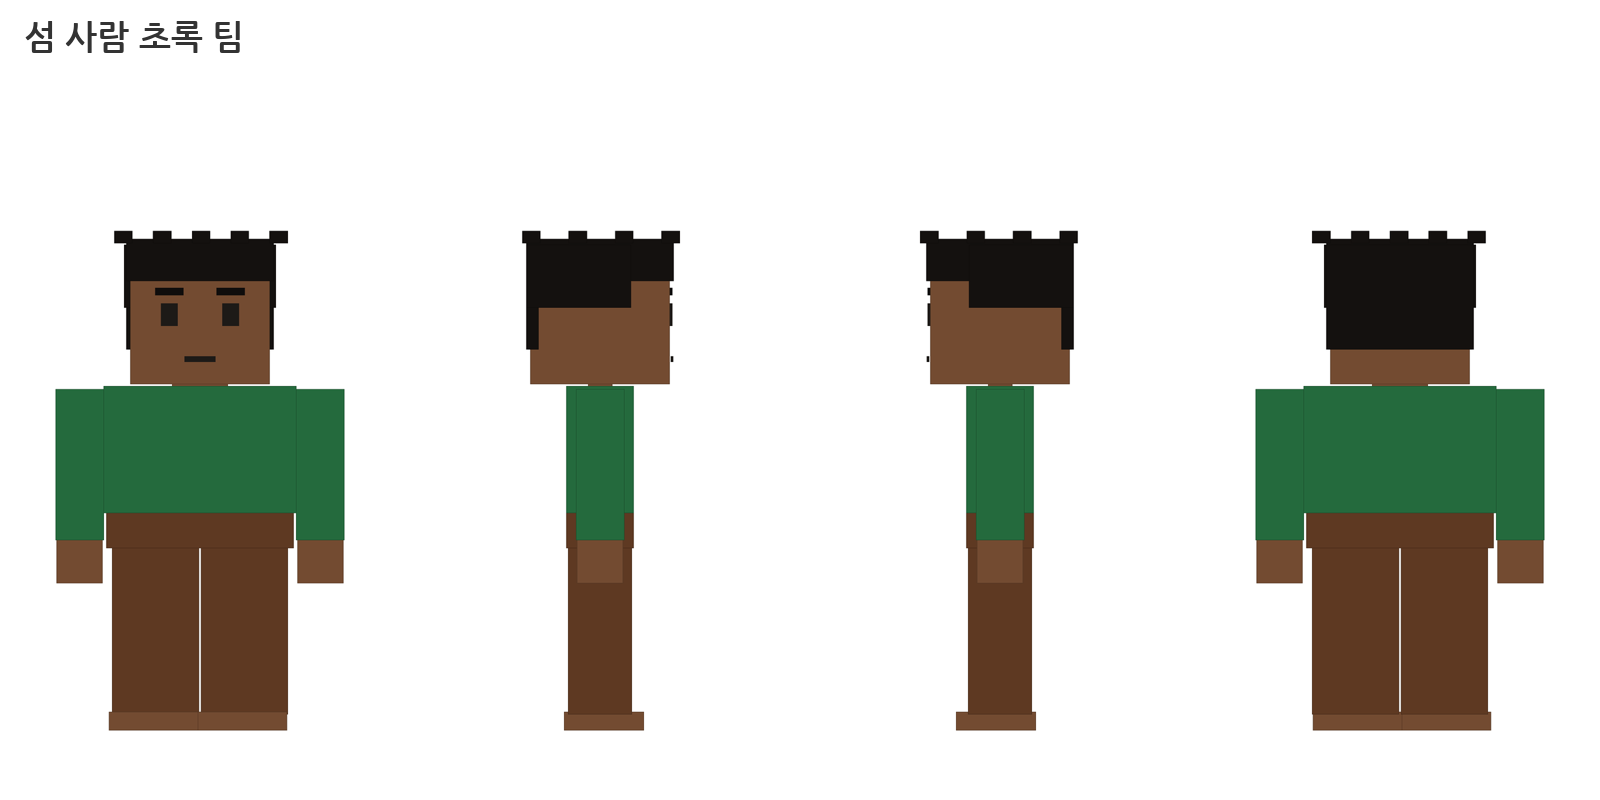
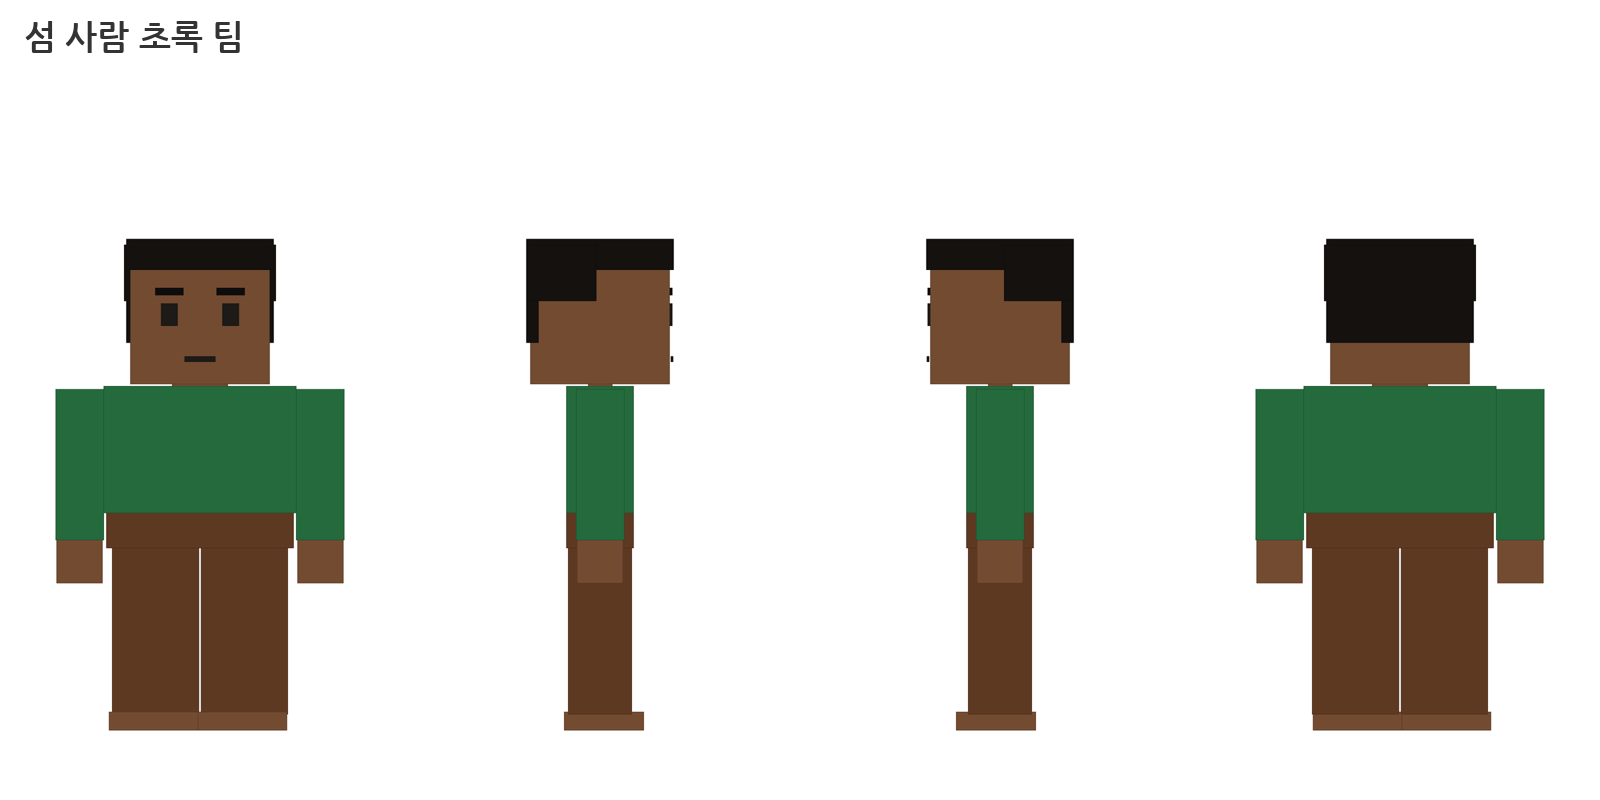
입체 블록 인물: 머리 모양 단순하게(윗판·뒤판·짧은 옆판, 삐죽·뽀글 조각 없음)
Claude-Session: https://claude.ai/code/session_01HCMiusSqCGhLJD35gTQhF1

diff --git a/블록3D.py b/블록3D.py
@@ -293,31 +293,17 @@ def person(c, pos, face=0.0, pose=None, scale=1.0):
     if st == "bald":
         for sg in (-1, 1):
             B((sg * (hwid / 2) - (0.08 if sg < 0 else 0) + (0 if sg < 0 else -0.0), hy + hs * 0.35, -hs / 2), (0.08, hs * 0.35, hs * 0.8), hc)
-    else:
-        top_h = hs * (0.24 if st != "perm" else 0.3)
+    else:   # 단순한 머리 (사용자 결정 2026-11-05): 윗판 + 뒤판 + 뒤쪽 절반만 덮는 짧은 옆판, 삐죽·뽀글 조각 없음
+        long_ = st in ("bob", "long")
+        top_h = hs * 0.22
         B((-hwid / 2 - 0.04, t - top_h + 0.06, -hs / 2 - 0.04), (hwid + 0.08, top_h, hs + 0.08), hc)
-        back_h = hs * (0.9 if st in ("bob", "long") else 0.75)
-        if c["aviator"]:   # 비행 모자 밑 머리는 짧게 (뒷머리가 검은 덩어리로 얼굴을 덮지 않게)
+        back_h = hs * (1.25 if st == "long" else 0.85 if long_ else 0.7)
+        if c["aviator"]:
             back_h = hs * 0.45
         B((-hwid / 2 - 0.04, t - back_h, -hs / 2 - 0.04), (hwid + 0.08, back_h, 0.12), hc)
-        sl = hs * (0.8 if st in ("bob", "long") else 0.45) * (0.6 if c["aviator"] else 1.0)
+        sl = hs * (0.7 if long_ else 0.4) * (0.6 if c["aviator"] else 1.0)
         for sg in (-1, 1):
-            B((sg * hwid / 2 - (0.06 if sg < 0 else -0.02) - (0 if sg < 0 else 0.04), t - sl, -hs / 2 - 0.04), (0.08, sl, hs * (0.75 if st not in ("bob", "long") else 0.95)), hc)
-        if st == "long":
-            B((-hwid / 2 - 0.04, t - hs * 1.6, -hs / 2 - 0.06), (hwid + 0.08, hs * 0.8, 0.14), hc)
-        if st == "spiky" and not c["aviator"]:
-            for i in range(5):
-                for j in range(3):
-                    px = -hwid / 2 + hwid * (i + 0.5) / 5 - 0.07
-                    pz = -hs / 2 + hs * (j + 0.5) / 3 - 0.07
-                    hh_ = 0.1 + 0.08 * ((i * 7 + j * 3) % 3)
-                    B((px, t + 0.06, pz), (0.14, hh_, 0.14), hc)
-            for i in range(4):
-                B((-hwid / 2 + hwid * (i + 0.5) / 4 - 0.07, t - top_h - 0.06, fz - 0.06), (0.14, 0.14, 0.1), hc)
-        if st == "perm":
-            for i in range(5):
-                for j in range(4):
-                    B((-hwid / 2 - 0.08 + (hwid + 0.16) * i / 4 - 0.08, t + 0.02, -hs / 2 + hs * j / 3 - 0.08), (0.18, 0.12, 0.18), hc)
+            B((sg * hwid / 2 - (0.06 if sg < 0 else -0.02) - (0 if sg < 0 else 0.04), t - sl, -hs / 2 - 0.04), (0.08, sl, hs * 0.5), hc)
     # 모자
     if c["cap"]:
         cc = c["cap"] if isinstance(c["cap"], str) else (c["sig"] or "#333a55")
